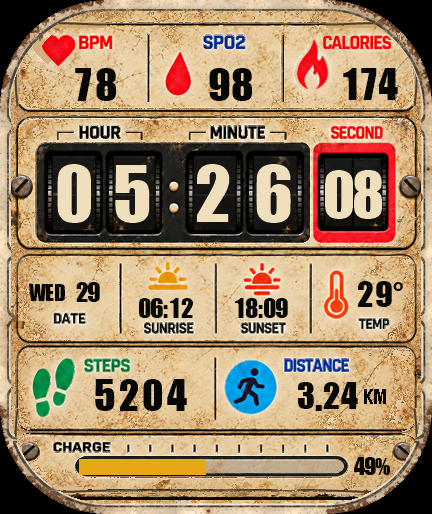
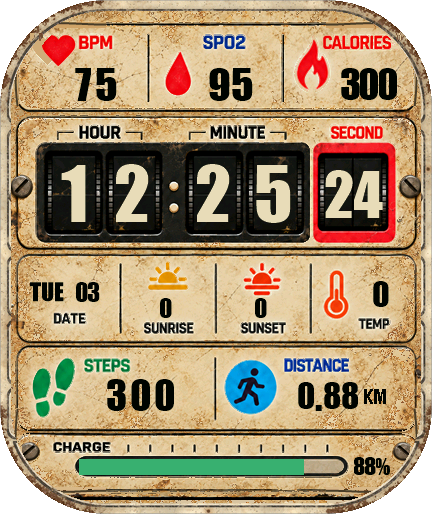
Update Vintage preview to approved store screenshot

diff --git a/README.md b/README.md
@@ -1,8 +1,10 @@
 # Vintage Grunge Fitness
 
-Zepp OS watchface for Amazfit Bip Max (432 × 514). Version 1.4.5.
+Zepp OS watchface for Amazfit Bip Max (432 × 514). Version 1.4.5. Approved in the Zepp watchface store.
 
 ![Preview](previews/watchface-preview.png)
+
+The main preview is the official Bip Max emulator capture used for the approved store submission, with transparent outer corners.
 
 ![Always-on display](previews/watchface-aod-preview.png)
 
